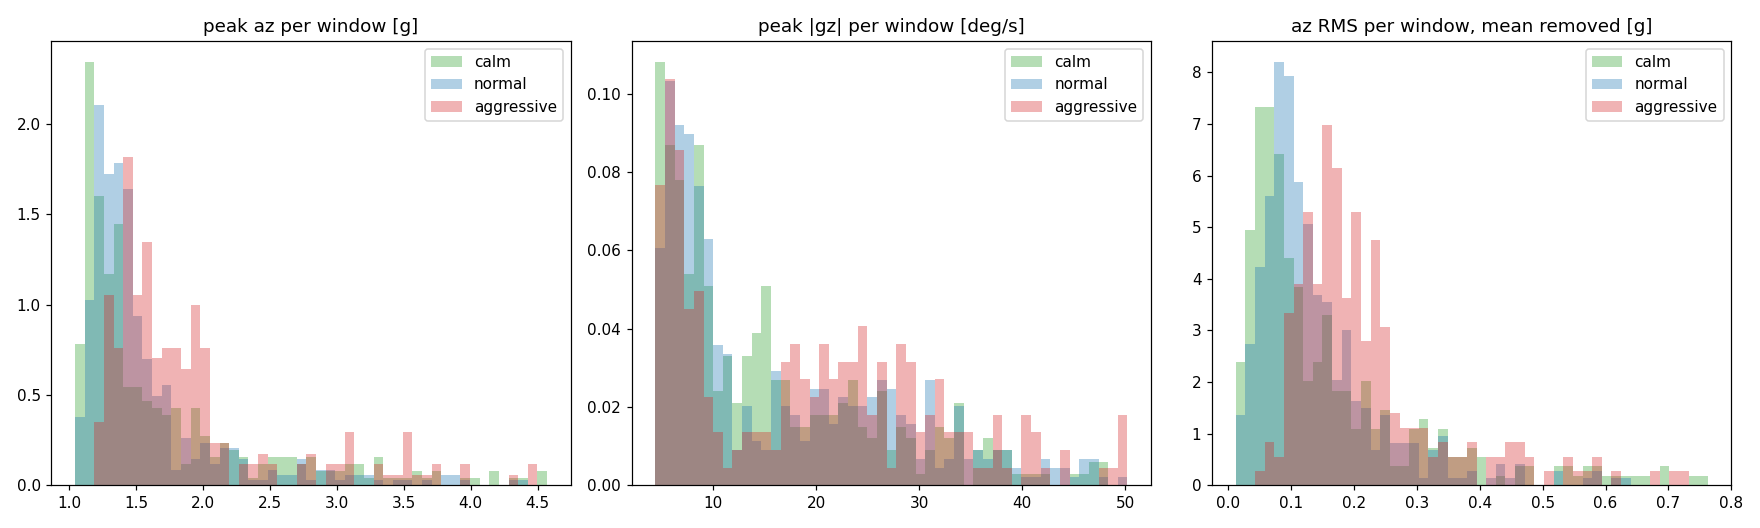
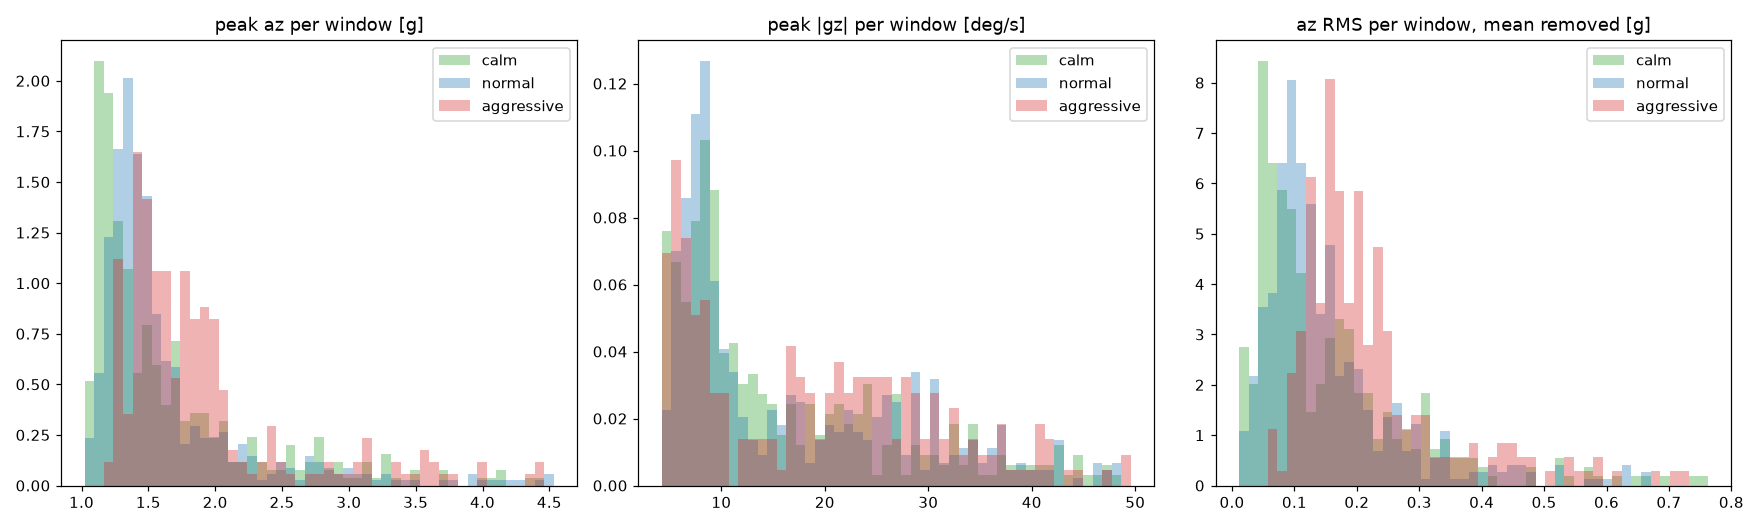
new mount (handlebar) data generation)

Changed region(s): [[0.0, 0.0303, 1.0, 0.9697]]

diff --git a/moto_imu_sim.py b/moto_imu_sim.py
@@ -205,7 +205,7 @@ CONFIG = {
         "res_freq_hz": (50.0, 200.0),
         "res_q": (5.0, 20.0),
         "res_gain": (1.0, 3.0),
-        "handlebar_prob": 0.5,
+        "handlebar_prob": 1.0,
         "handlebar_gain": (1.6, 2.4),
         "rubber_prob": 0.4,
         "rubber_cutoff_hz": (35.0, 80.0),
